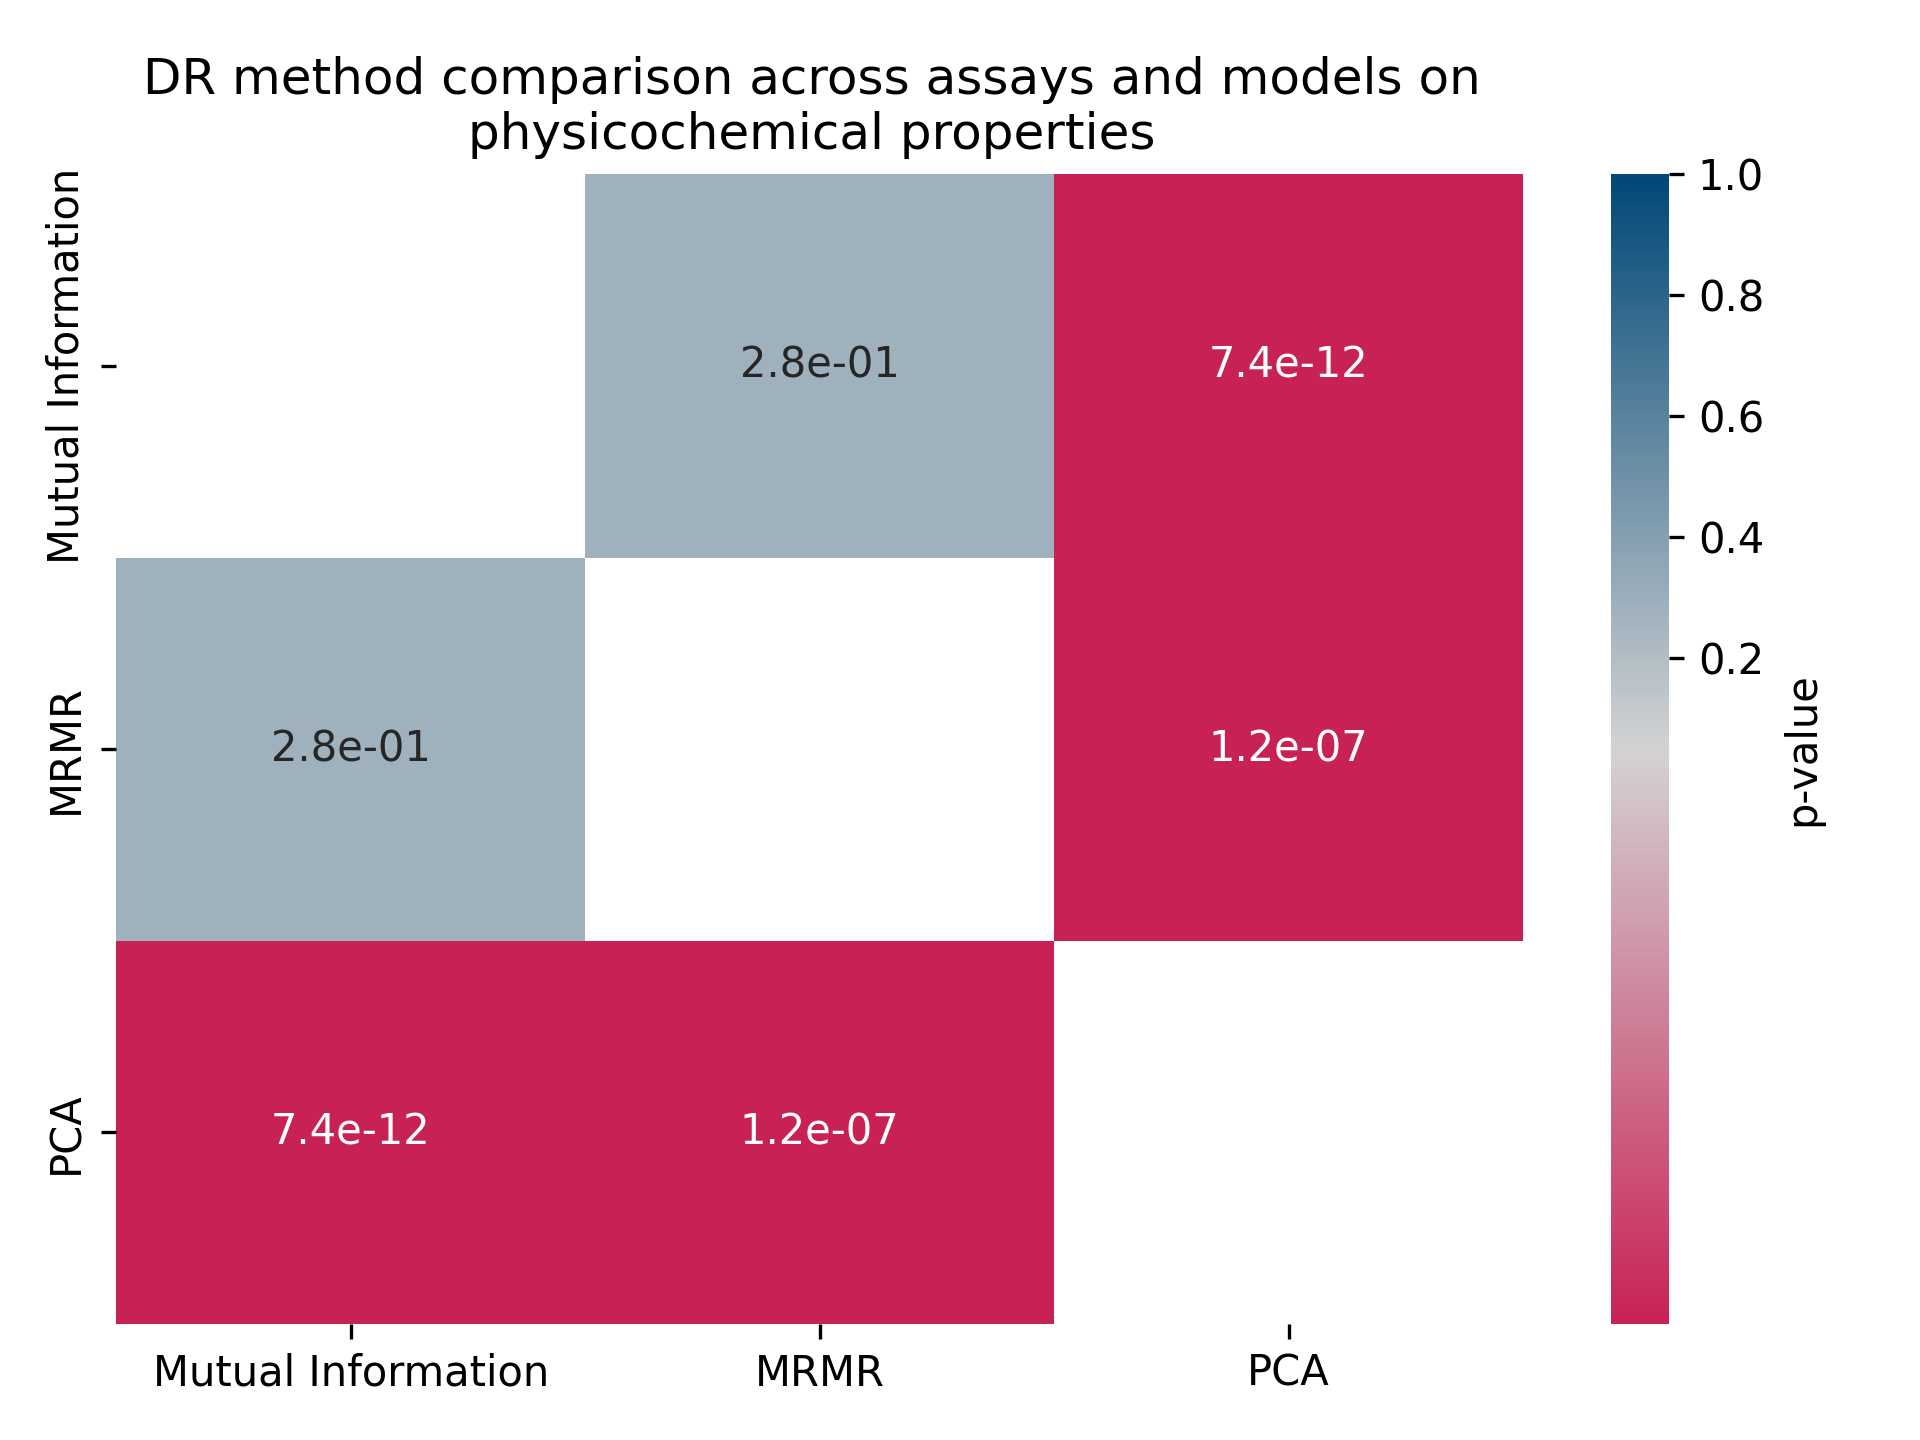
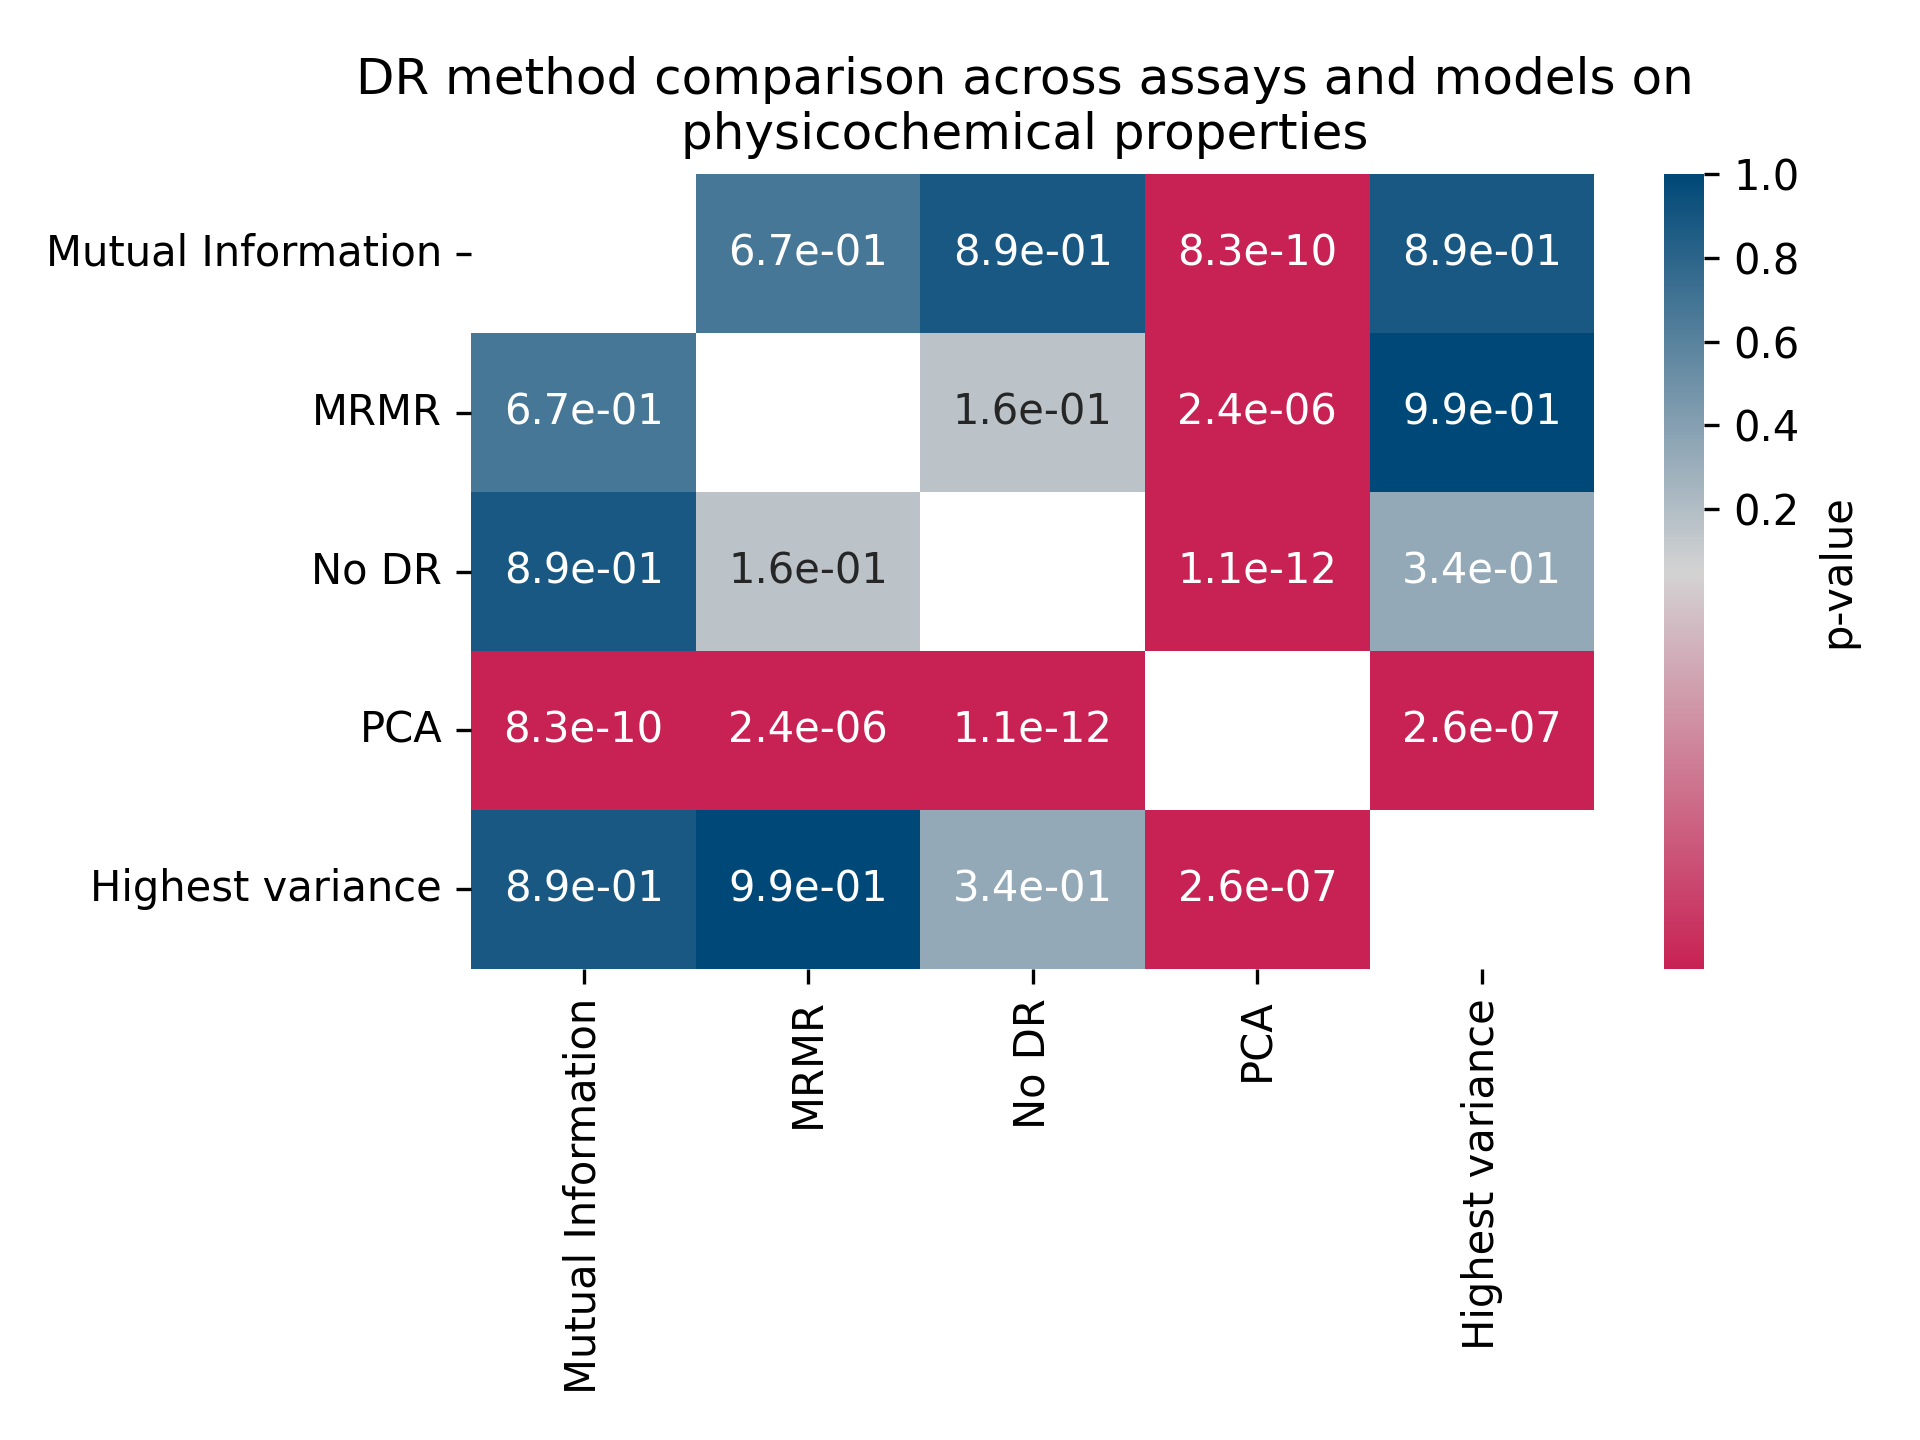
plotting new results

diff --git a/evaluation/generate_DR_method_comparison_across_and_per_model.py b/evaluation/generate_DR_method_comparison_across_and_per_model.py
@@ -29,7 +29,7 @@ def inverse_fisher_z(z):
     return np.tanh(z)
 
 
-def cd_plot_for_nemenyi(final_results, dr_name_map, feature_type, feature_name_map, output_dir, model = None):
+def cd_plot_for_nemenyi(final_results, dr_name_map, feature_type, feature_name_map, output_dir, model=None):
     final_results['mcc_z'] = fisher_z(final_results['mcc'])
     means = (
         final_results.groupby(['assay', 'dr_method'], as_index=False)['mcc_z']
@@ -126,6 +126,7 @@ def cd_plot_for_nemenyi(final_results, dr_name_map, feature_type, feature_name_m
         plt.savefig(f'{output_dir}/{feature_type}_critical_difference_plot_nemenyi_comparing_DR_methods_{model}.png',
                     dpi=300, transparent=False)
 
+
 def pairwise_friedman_nemenyi(data):
     # Pivot the data to have one column per model and one row per subject
     pivoted = data.pivot(index='fold', columns='dr_method', values='mcc')
@@ -207,13 +208,13 @@ def main(args):
                     except:
                         assay_done = False
                         break
-                    if len(new_df) < num_models:
-                        assay_done = False
-                        break
-                    elif len(new_df) > num_models:
+                    if (args.tabpfn_missing in ['y', 'yes', 'true', 't', 'True']) and ('tabpfn' in new_df['model'].values):
                         # tabpfn is run for this setting, but we don't want to evaluate it
                         new_df = new_df.loc[new_df['model'] != 'tabpfn', :]
 
+                    if len(new_df) < num_models:
+                        assay_done = False
+                        break
                     if results_df is None:
                         results_df = new_df
                     else:
@@ -234,7 +235,7 @@ def main(args):
                         final_results = pd.concat(
                             [final_results, results_df.copy(deep=True)])
                         final_results.reset_index(inplace=True, drop=True)
-
+    print(final_results)
     feature_name_map = {
         'physchem': 'physicochemical properties',
         'morgan': 'Morgan fingerprints',
@@ -247,10 +248,10 @@ def main(args):
         "mlp": "MLP",
         "svm": "SVM",
         "cat_boost": "CatBoost",
-        
+
     }
-    if not(args.tabpfn_missing in [
-                       'y', 'yes', 'true', 't', 'True']):
+    if not (args.tabpfn_missing in [
+            'y', 'yes', 'true', 't', 'True']):
         model_name_map["tabpfn"] = 'TabPFN'
 
     dr_name_map = {
@@ -264,7 +265,8 @@ def main(args):
     cd_plot_for_nemenyi(copy.deepcopy(final_results), dr_name_map,
                         feature_type, feature_name_map, output_dir=out_dir)
     for model in model_name_map.keys():
-        cd_plot_for_nemenyi(final_results=copy.deepcopy(final_results.loc[final_results['model'] == model, :]), feature_type=feature_type, feature_name_map=feature_name_map, dr_name_map=dr_name_map, output_dir=out_dir, model = model)
+        cd_plot_for_nemenyi(final_results=copy.deepcopy(final_results.loc[final_results['model'] == model, :]),
+                            feature_type=feature_type, feature_name_map=feature_name_map, dr_name_map=dr_name_map, output_dir=out_dir, model=model)
 
 
 if __name__ == "__main__":
